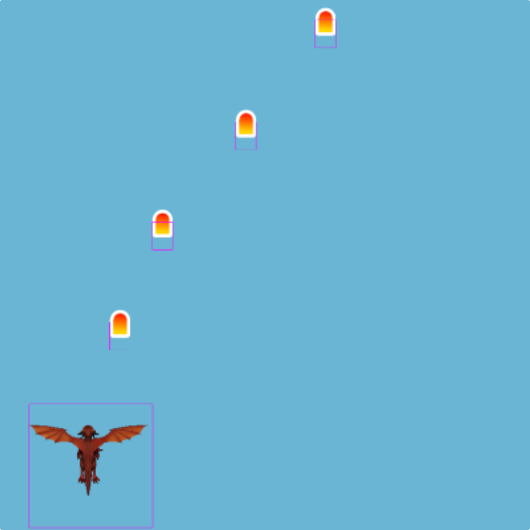
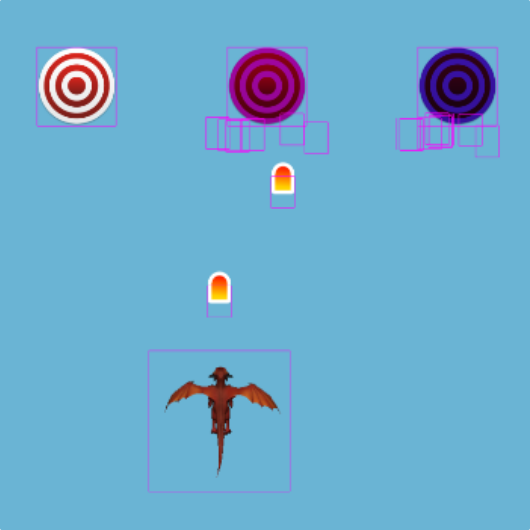
doc : Test Landpage documentation

diff --git a/index.html b/index.html
@@ -52,8 +52,8 @@
 				<div class="card">
 					<img src="thumbs/bulletManager.png" class="card-img-top" alt="...">
 					<div class="card-body">
-						<h5 class="card-title">Bullet Manager</h5>
-						<p class="card-text">Crea, administra y provee todos los bullets del juego.</p>
+						<h5 class="card-title">Bullet Manager & Collision Detection</h5>
+						<p class="card-text">El Bullet Manager crea, administra y provee bullets para uno o múltiples agentes.</p>
 						<a href="./test/bulletManager/" class="btn btn-primary">¡Test!</a>
 					</div>
 				</div>
